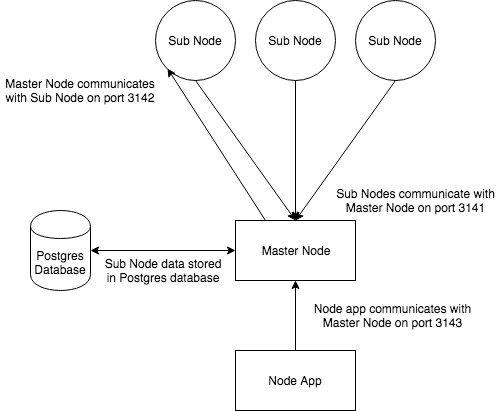
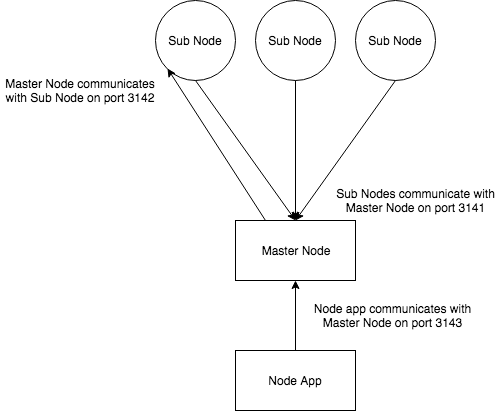
Rewriting Masternode

diff --git a/src/GaiaMasterNode.go b/src/GaiaMasterNode.go
@@ -5,65 +5,29 @@ import (
 	"log"
 	"net/http"
 	"strconv"
-	"time"
-
-	"github.com/gorilla/mux"
 )
 
-// SubNode struct represents
 type SubNode struct {
-	Url           string
-	Name          string
-	IP            string
-	UnixTimeAdded int64
+	IP                     string
+	BatteryLevelPercentage float64
 }
 
-// Adds header to prevent Access-Control-Allow-Origin CORS error
-func enableCors(w *http.ResponseWriter) {
-	(*w).Header().Set("Access-Control-Allow-Origin", "*")
-}
+// Updates subNodeSlice with SubNode
+func updateSubNodeStatus(w http.ResponseWriter, r *http.Request) {
+	fmt.Println("Params:")
+	fmt.Println(r.URL.Query())
+	fmt.Println(r.URL.Query().Get("BatteryLevelPercentage"))
 
-// Returns Sub Node data
-func getNodeStatus(w http.ResponseWriter, r *http.Request) {
-	enableCors(&w)
-
-	queryParams := r.URL.Query()
-	fmt.Println("queryParams:")
-	fmt.Println(queryParams)
-
-	// json.NewEncoder(w).Encode(subNodeDataSlice)
-}
-
-// Adds Sub Node to list of Sub Nodes (with timestamp)
-func addSubNodeToList(w http.ResponseWriter, r *http.Request) {
-	enableCors(&w)
-
-	// Uses query params to create Sub Node
-	queryParams := r.URL.Query()
+	// Creates SubNode struct and adds it to subNodeSlice
+	batteryLevelPercentage, err := strconv.ParseFloat(r.URL.Query().Get("BatteryLevelPercentage"), 64)
+	handleError(err)
 	subNode := SubNode{
-		Url:           queryParams.Get("url"),
-		Name:          queryParams.Get("name"),
-		IP:            queryParams.Get("ip"),
-		UnixTimeAdded: time.Now().Unix(),
+		BatteryLevelPercentage: batteryLevelPercentage,
 	}
+	fmt.Println(subNode)
 
-	// Adds a new Sub Node to subNodesConnected
-	subNodesConnected[queryParams.Get("url")] = subNode
-	fmt.Println(subNodesConnected)
-	fmt.Println(len(subNodesConnected))
-}
-
-var subNodesConnected = make(map[string]SubNode)
-
-func main() {
-	const port = 3141
-
-	// Sets up /api/node-status endpoint
-	router := mux.NewRouter()
-	// Look over https://www.codementor.io/codehakase/building-a-restful-api-with-golang-a6yivzqdo to set POST/etc.
-	router.HandleFunc("/api/node-status", getNodeStatus).Methods("GET")
-	router.HandleFunc("/api/check-in", addSubNodeToList).Methods("GET")
-	log.Fatal(http.ListenAndServe(":"+strconv.Itoa(port), router))
+	// fmt.Fprintf(w, "Hi there, I love %s!", r.URL.Path[1:])
+	fmt.Fprintf(w, "SubNode Updated!")
 }
 
 // If error is passed in, throws error
@@ -73,6 +37,13 @@ func handleError(err error) {
 	}
 }
 
-// TODO: Set up connection between Node server & Golang server
-// TODO: Write a function that listens for new Sub Nodes on port 3142 (note that a list of Sub Nodes must be maintained on the Master Node)
-// TODO: Write a function that communicates with the Sub Node on port 3143
+// Stores map of IP (string) to SubNode structs
+var subNodeSlice = make(map[string]SubNode)
+
+func main() {
+	const port = "3141"
+
+	// Updates subNodeSlice with SubNode
+	http.HandleFunc("/api/update-sub-node", updateSubNodeStatus)
+	log.Fatal(http.ListenAndServe(":"+port, nil))
+}
